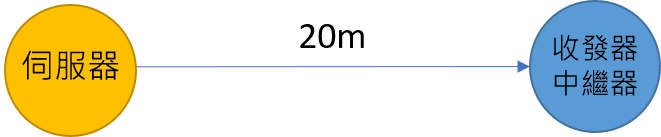
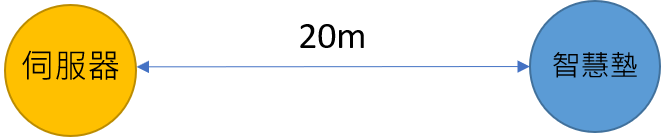
GitBook: [master] 7 pages and 7 assets modified

Changed region(s): [[0.8169, 0.2336, 0.9682, 0.7007], [0.2118, 0.438, 0.2421, 0.5255]]

diff --git a/zhi-ju.md b/zhi-ju.md
@@ -1,24 +1,32 @@
 ---
-description: 常見的三種情況如下
+description: 在這一節，會說明三種常見的伺服器與收發器/中繼器的佈署距離。
 ---
 
-# 1. 伺服器與收發器/中繼器的距離
+# 1. 伺服器與智慧墊的安裝距離
+
+{% hint style="info" %}
+伺服器通常都放在護理站，而智慧墊分佈在各病房內，在佈署上，為了確保干擾降到最低及維持收訊品質，常見的佈局有三種：
+{% endhint %}
 
 ## 直線距離中間沒有障礙
 
-> 將伺服器與收發器\(或中繼器\)的位置為直線時，最高收訊距離可達**20公尺**。
+如果伺服器與安裝智慧墊的病床，相對位置趨向直線時，收訊距離可達**20公尺**。
 
-![](.gitbook/assets/zhi-xian-shou-xun%20%281%29.png)
+![](.gitbook/assets/zhi-xian-shou-xun.png)
 
 ## 單一轉角距離
 
-> 如果伺服器與智慧墊之間位置為L型，且中間牆壁為水泥或金屬阻隔，建議收訊距離為**15公尺**。
+如果伺服器與安裝智慧墊的病床，相對位置為L型，且中間牆壁為水泥或金屬阻隔，收訊距離可達**15公尺**。
 
-![](.gitbook/assets/l-shou-xun.png)
+![](.gitbook/assets/l-shou-xun%20%281%29.png)
 
 ## 雙轉角距離
 
-> 如果伺服器與智慧墊之間位置為U型，且中間牆壁為水泥或金屬阻隔，建議收訊距離為**10公尺**。
+如果伺服器與安裝智慧墊的病床，相信位置為U型，且中間牆壁為水泥或金屬阻隔，收訊距離可達**10公尺**。
 
-![](.gitbook/assets/u-shou-xun.png)
+![](.gitbook/assets/u-shou-xun%20%281%29.png)
+
+## 超過距離的作法
+
+如果超過建議的距離，可以在伺服器與智慧墊中間加入中繼器，作為訊號的接續點。
 

diff --git a/1.1-test.md b/1.1-test.md
@@ -1,13 +1,8 @@
 ---
-description: 提高收訊品質的注意事項
+description: 在本節中，將說明佈署過程中，提高收訊品質的注意事項
 ---
 
 # 2. 佈署注意事項
-
-1. 天線須直立或倒立。
-2. 天線周圍保持開放，避免遮蔽。
-3. 天線避免接觸金屬物及靠近床墊馬達。
-4. Server天線避免靠著牆壁。
 
 ## 天線須直立或倒立
 
@@ -17,9 +12,9 @@ description: 提高收訊品質的注意事項
 
 ## 天線周圍保持開放，避免遮蔽
 
-## 天線避免接觸金屬物
-
-## 伺服器天線避免靠著牆壁
+* 避免天線靠近水泥牆壁
+* 避免天線接觸金屬物
+* 避免天線安裝在螢幕後面 
 
 ## 收發器安裝位置儘量遠離床架馬達
 
@@ -28,4 +23,16 @@ description: 提高收訊品質的注意事項
 ![](.gitbook/assets/shou-fa-qi-an-zhuang-wei-zhi-jin-liang-yuan-li-chuang-jia-ma-da.png)
 
 ## 中繼器安裝位置儘量遠離機房
+
+中繼器經常安裝在走廊上，若位置可選擇，儘量離遠機房。\(如洗衣間、熱水鍋爐間、茶水間等\)
+
+![](.gitbook/assets/zhong-ji-qi-yuan-li-ji-fang.png)
+
+## 有玻璃間隔要縮短安裝距離
+
+如果安裝伺服器的護理站，與病區間有玻璃完全間隔，安裝距離需縮短為建議值的**1/2**。\([伺服器與智慧墊的安裝距離](https://billy0727.gitbook.io/guideline/~/edit/drafts/-LVGNiMc0LLwhUULwlYP/zhi-ju)\)
+
+![](.gitbook/assets/bo-li-zu-ge.jpg)
+
+
 

diff --git a/guo-bu-liang-de-yin-ce.md b/guo-bu-liang-de-yin-ce.md
@@ -1,7 +1,19 @@
-# 4. 測試結果不良的因應對策
+---
+description: Q&A
+---
 
-換5dB
+# 3. 收訊不良的原因及對策
 
-* 收發器換成5dB天線
-* 加入中繼器
+### 伺服器與智慧墊距離太遠
+
+* 將智慧墊的訊號收發器天線更換成5dB。
+* 伺服器與智慧墊位置之間加入訊號中繼器。
+* 若加入訊號中繼器，收訊距離還是太遠，也可將訊號中繼器的天線換成5dB。
+
+### 伺服器與智慧墊距離近但也收訊不好
+
+* 檢查伺服器、訊號收發器、中繼器天線是否鬆脫。
+* 檢查設備天線是否有直立或倒立。
+* 安裝的位置，是否有訊號干擾或阻隔物，如：金屬、防火門、玻璃等。
+* 變更收訊頻道，避免現場wifi干擾。
 

diff --git a/SUMMARY.md b/SUMMARY.md
@@ -1,10 +1,9 @@
 # Table of contents
 
 * [關於這份指南](README.md)
-* [伺服器與收發器佈署](si-fu-qi-shou-qi-shu.md)
-* [1. 伺服器與收發器/中繼器的距離](zhi-ju.md)
+* [網絡的佈署](si-fu-qi-shou-qi-shu.md)
+* [1. 伺服器與智慧墊的安裝距離](zhi-ju.md)
 * [2. 佈署注意事項](1.1-test.md)
-* [3. 常見干擾源](chang-gan-yuan.md)
-* [4. 測試結果不良的因應對策](guo-bu-liang-de-yin-ce.md)
+* [3. 收訊不良的原因及對策](guo-bu-liang-de-yin-ce.md)
 * [產品安裝](2.-an.md)
 

diff --git a/si-fu-qi-shou-qi-shu.md b/si-fu-qi-shou-qi-shu.md
@@ -2,5 +2,7 @@
 description: 伺服器與收發器之間的位置規則及注意事項
 ---
 
-# 伺服器與收發器佈署
+# 網絡的佈署
+
+照護系統伺服器作為資料的收集及運算，所以各智慧墊會即時將資料回傳至伺服器，當場域太寬廣，導教伺服器與智慧墊距離太遠，可以中繼器作為訊號的延續。
 
